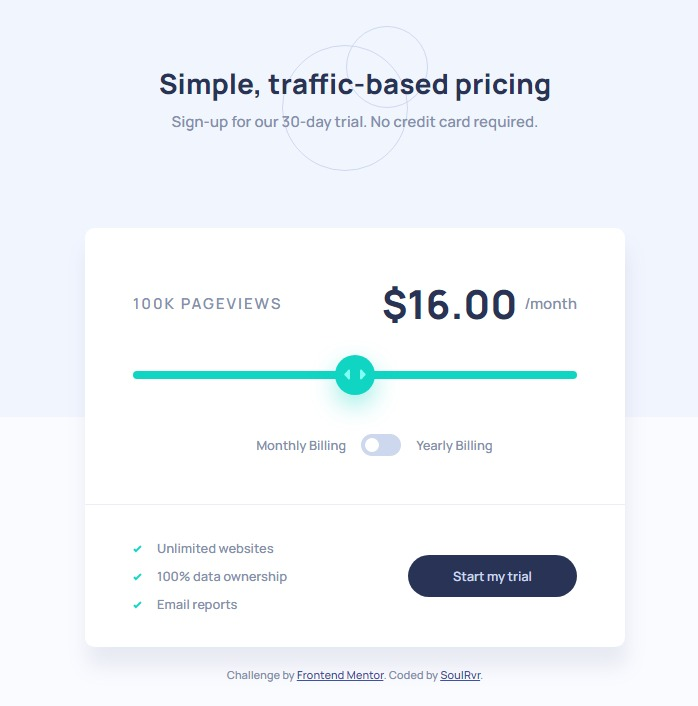
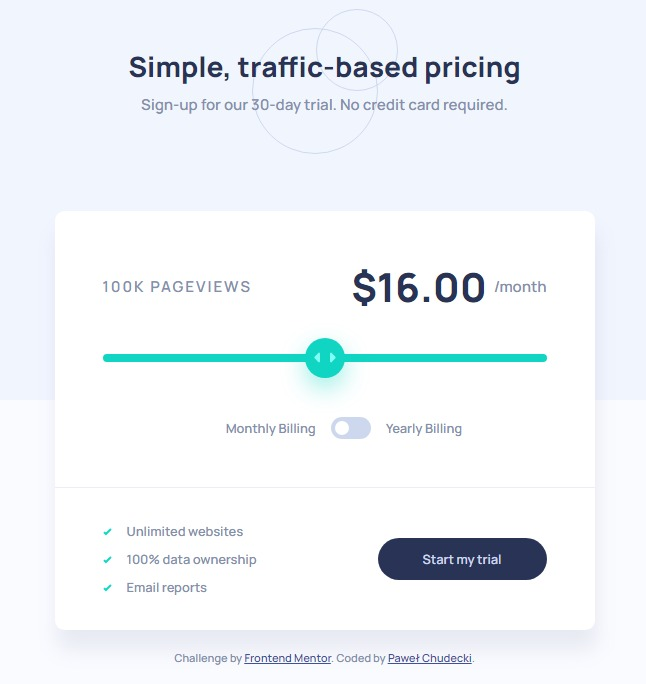
footer and screenshot update

diff --git a/index.html b/index.html
@@ -75,7 +75,10 @@
               href="https://www.frontendmentor.io?ref=challenge"
               target="_blank"
               >Frontend Mentor</a
-            >. Coded by <a href="#">SoulRvr</a>.
+            >. Coded by
+            <a href="https://www.frontendmentor.io/profile/SoulRvr29"
+              >Paweł Chudecki</a
+            >.
           </div>
         </div>
       </footer>
